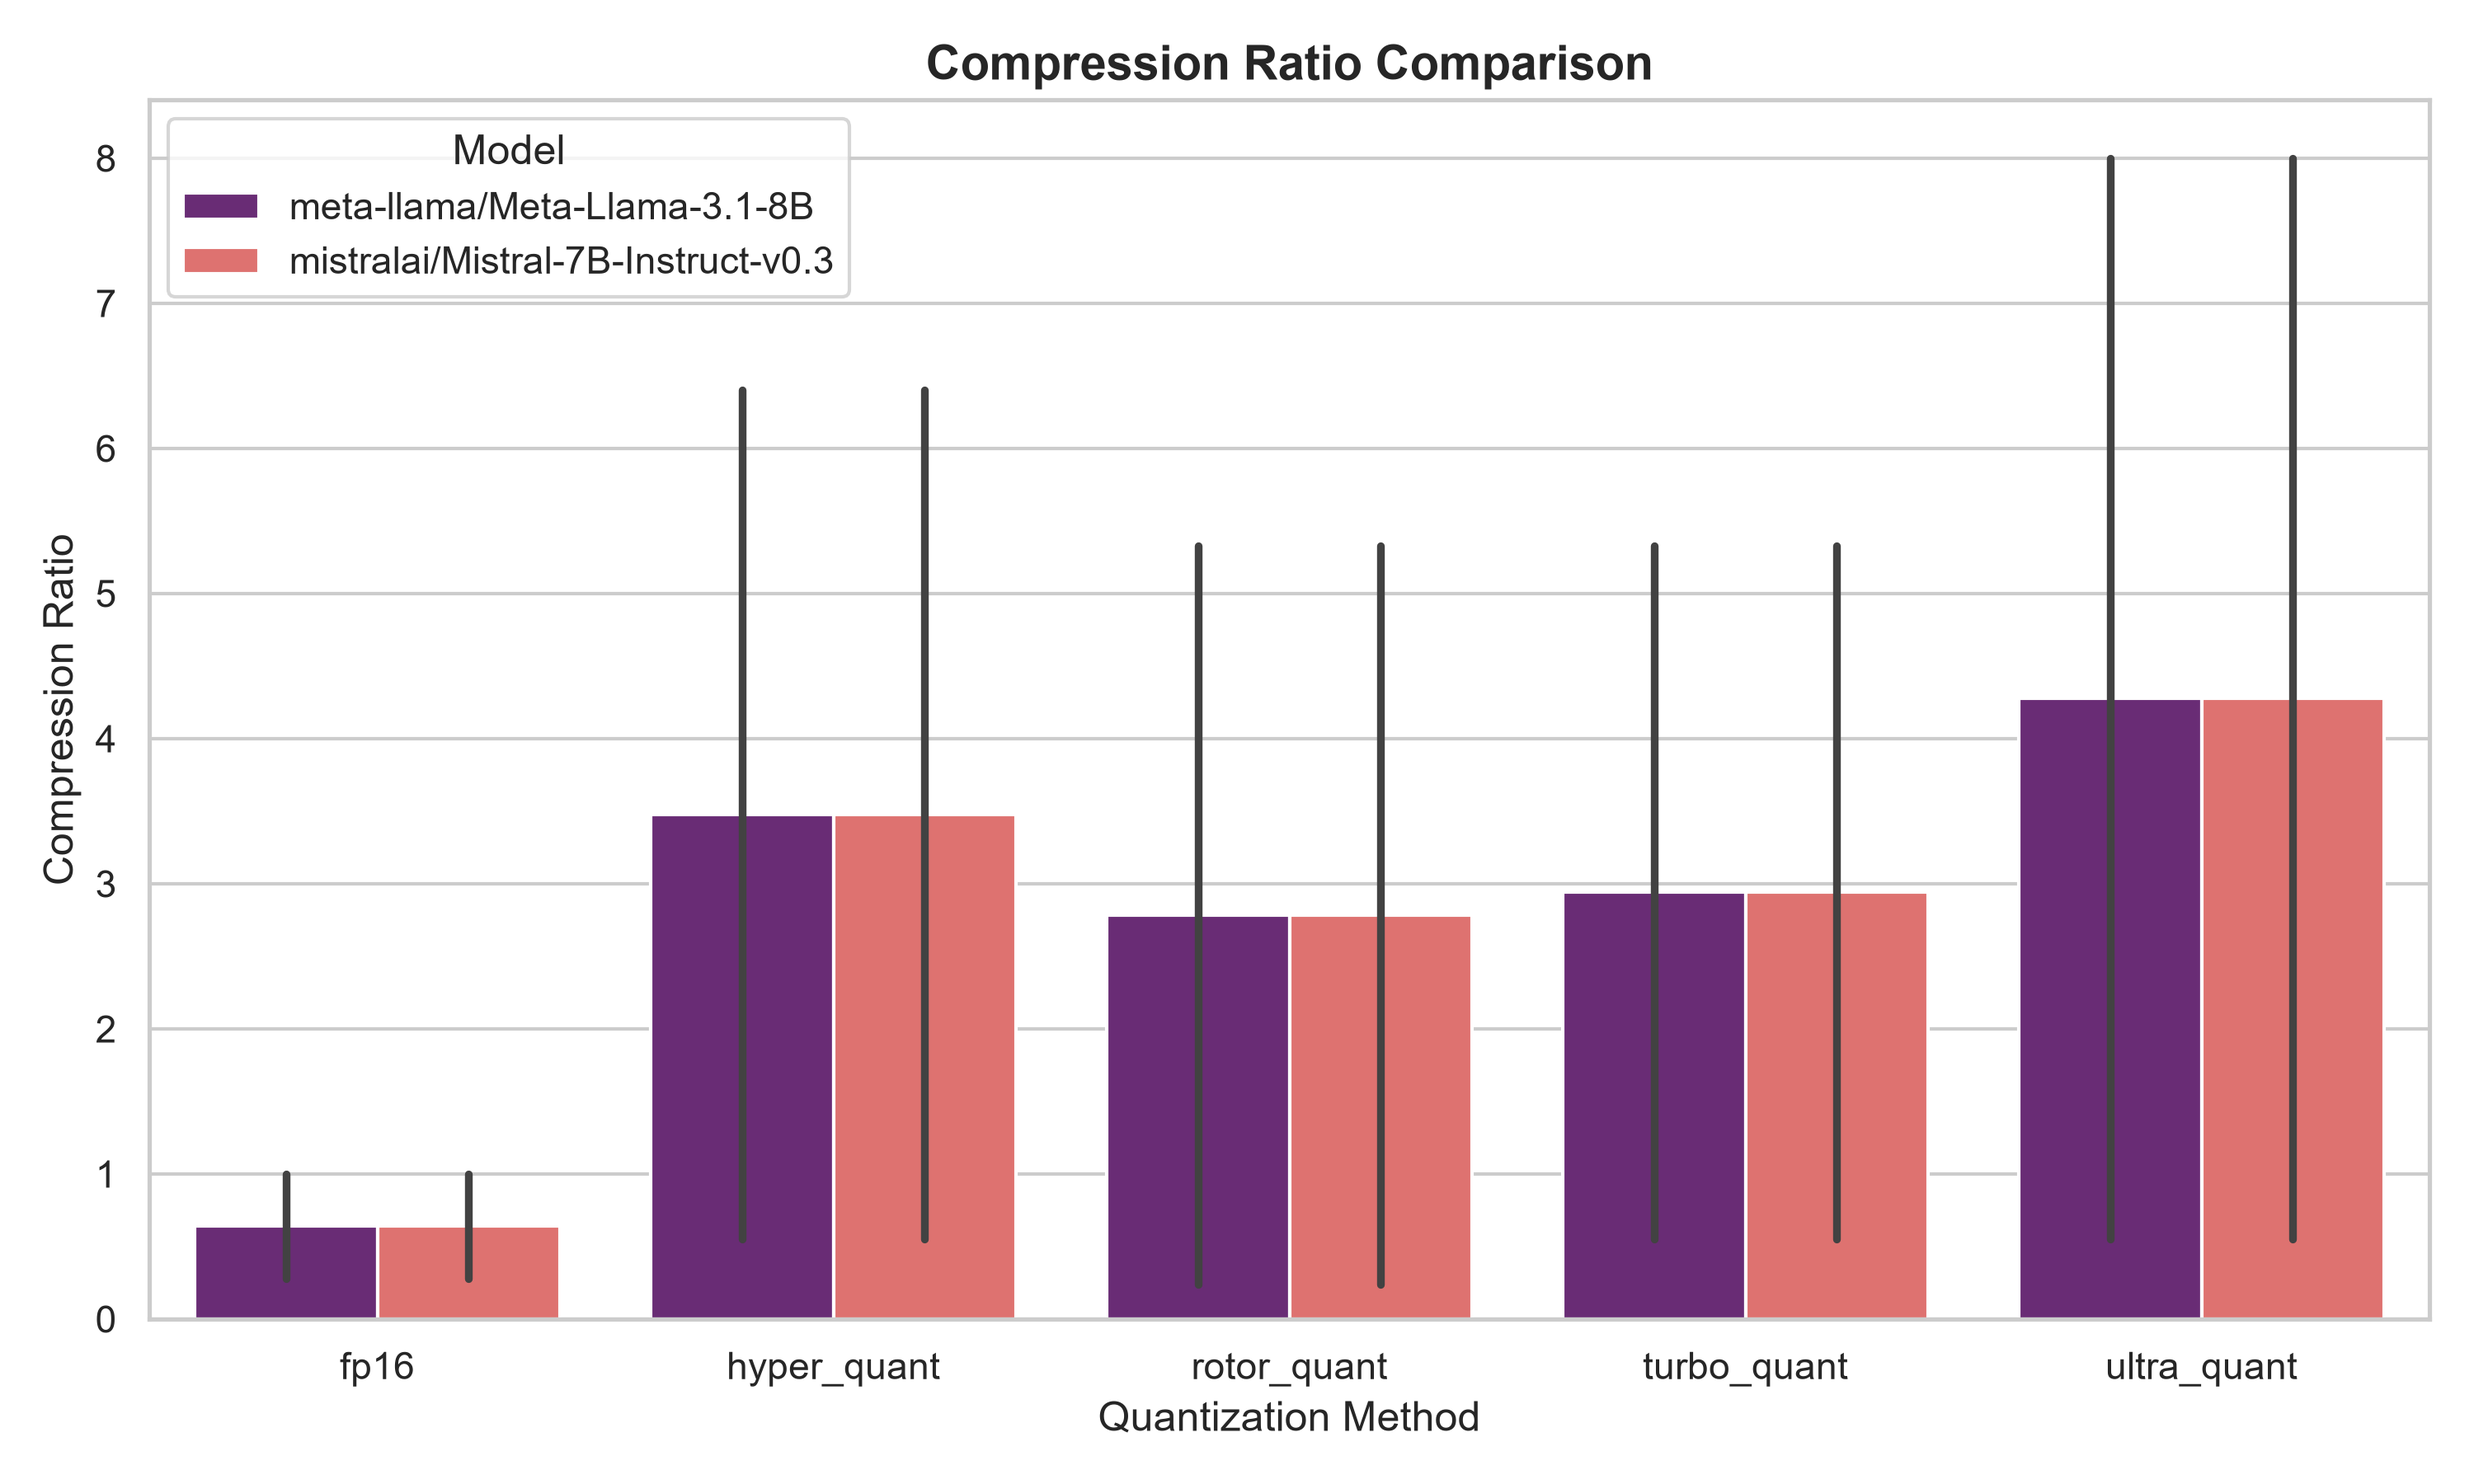
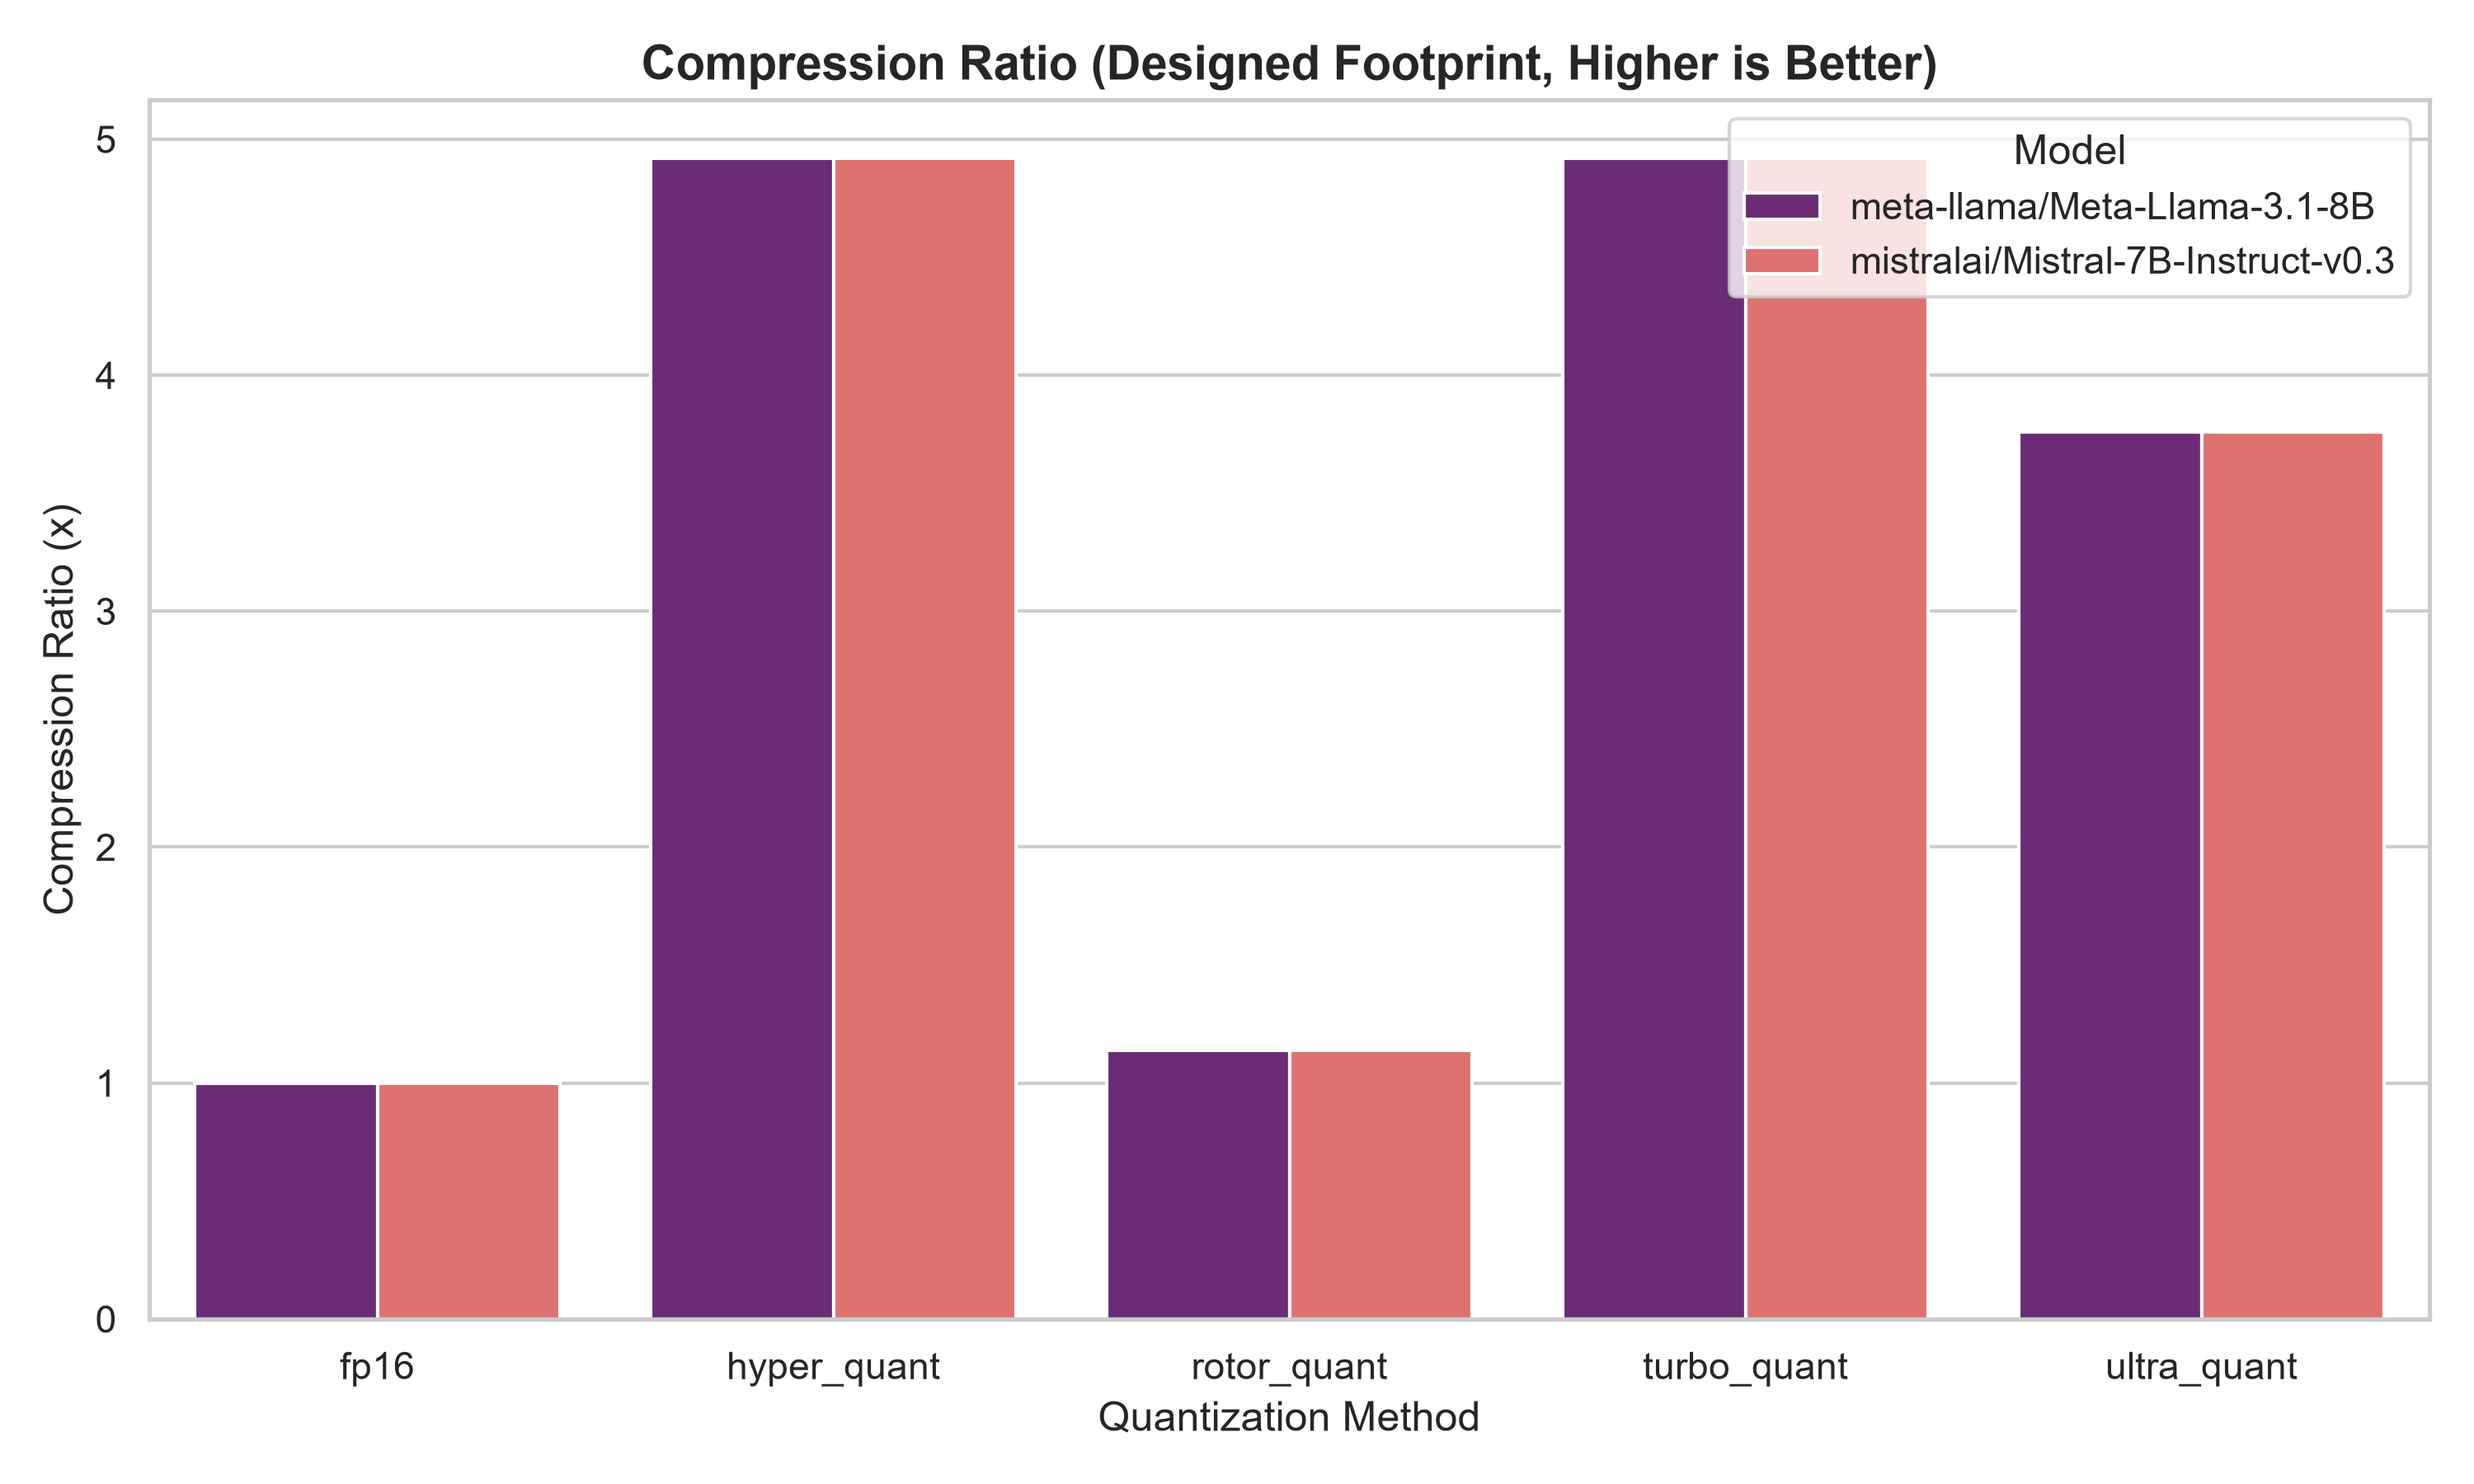
Restore and update summarize_results.py for new result schema; regenerate summary & plots
- restore results/summarize_results.py (deleted in 8effe54)
- compression plot now uses designed_compression_ratio (new schema field)
- add NIAH success rate, LongBench QA-F1, and logit/KV fidelity plots (6 total)
- skip list-form footprint summaries with an INFO message instead of a crash
- replace emoji prints with ASCII tags (Windows cp932 console crashed on them)
- requirements.txt: add matplotlib and seaborn

diff --git a/results/summarize_results.py b/results/summarize_results.py
@@ -1,0 +1,192 @@
+#!/usr/bin/env python3
+import os
+import glob
+import json
+import pandas as pd
+import matplotlib.pyplot as plt
+import seaborn as sns
+
+# スタイル設定
+sns.set_theme(style="whitegrid")
+plt.rcParams["font.size"] = 12
+
+# ファイル名サフィックスから判定するタスク種別
+TASK_TYPES = ["longbench", "niah", "ppl", "speed", "compression", "fidelity", "theoretical", "sanity"]
+
+
+def load_and_merge_results(results_dir="results/ai-l40s"):
+    """
+    results フォルダ内の全 JSON ファイルを読み込み、
+    model_name と method、ベンチマーク種別ごとにマージする
+    """
+    json_files = glob.glob(os.path.join(results_dir, "**", "*.json"), recursive=True)
+
+    if not json_files:
+        json_files = glob.glob("results/*.json")
+        results_dir = "results"
+
+    if not json_files:
+        print("[WARN] 結果ファイル(JSON)が見つかりませんでした。")
+        return None
+
+    records = {}
+
+    for file_path in json_files:
+        try:
+            with open(file_path, "r", encoding="utf-8") as f:
+                data = json.load(f)
+
+            filename = os.path.basename(file_path)
+
+            # サマリ系（all_methods_footprint_summary 等）の list 形式は
+            # メソッド別 JSON に内容が含まれているので集計対象から外す
+            if isinstance(data, list):
+                print(f"[INFO] スキップ (list形式のサマリ): {filename}")
+                continue
+
+            data["file_name"] = filename
+
+            model_name = data.get("model_name", "unknown_model")
+            method = data.get("method", "unknown_method")
+
+            task_type = "general"
+            for benchmark_name in TASK_TYPES:
+                if benchmark_name in filename:
+                    task_type = benchmark_name
+                    data["benchmark"] = benchmark_name
+                    break
+
+            key = (model_name, method, task_type)
+
+            if key not in records:
+                records[key] = {}
+
+            # データを結合
+            for k, v in data.items():
+                if v is not None:
+                    records[key][k] = v
+
+        except Exception as e:
+            print(f"[ERROR] ファイルの読み込みエラー ({file_path}): {e}")
+
+    if not records:
+        return pd.DataFrame()
+
+    return pd.DataFrame(list(records.values()))
+
+
+def format_and_save_summary(df):
+    """
+    データを整形してコンソールに表示し、CSVとして保存する
+    """
+    print("\n" + "=" * 80)
+    print(" [SUMMARY] KV-Cache Quantization Benchmark Summary (Task-aware Merged)")
+    print("=" * 80)
+
+    pd.set_option("display.max_columns", None)
+    pd.set_option("display.width", 1000)
+    pd.set_option("display.float_format", lambda x: "%.4f" % x)
+
+    print(df.head(10))
+    print("=" * 80)
+
+    output_csv = "summary_results.csv"
+    df.to_csv(output_csv, index=False)
+    print(f"\n[OK] タスク別に整理されたサマリーデータを '{output_csv}' に保存しました。\n")
+
+
+def _bar(df, column, title, ylabel, filename, output_dir, palette="viridis"):
+    """共通の棒グラフヘルパー（対象列が無い場合は静かにスキップ）"""
+    if column not in df.columns:
+        return
+    plot_df = df.dropna(subset=[column]).drop_duplicates(subset=["model_name", "method"])
+    if plot_df.empty:
+        return
+    plt.figure(figsize=(10, 6))
+    sns.barplot(data=plot_df, x="method", y=column, hue="model_name", palette=palette)
+    plt.title(title, fontsize=14, fontweight="bold")
+    plt.xlabel("Quantization Method", fontsize=12)
+    plt.ylabel(ylabel, fontsize=12)
+    plt.legend(title="Model")
+    plt.tight_layout()
+    plt.savefig(os.path.join(output_dir, filename), dpi=300)
+    plt.close()
+
+
+def generate_plots(df, output_dir="plots"):
+    """
+    主要な指標の比較グラフを生成する（新スキーマ対応）
+    """
+    os.makedirs(output_dir, exist_ok=True)
+
+    # 1. PPL
+    _bar(
+        df, "perplexity",
+        "Perplexity (PPL) Comparison (Lower is Better)",
+        "Perplexity", "ppl_comparison.png", output_dir,
+    )
+
+    # 2. 圧縮率（designed footprint 基準: _theoretical.json / _compression.json 由来）
+    _bar(
+        df, "designed_compression_ratio",
+        "Compression Ratio (Designed Footprint, Higher is Better)",
+        "Compression Ratio (x)", "compression_comparison.png", output_dir, palette="magma",
+    )
+
+    # 3. 速度
+    _bar(
+        df, "tokens_per_second",
+        "Inference Speed Comparison (Higher is Better)",
+        "Tokens / Second", "speed_comparison.png", output_dir, palette="coolwarm",
+    )
+
+    # 4. NIAH 成功率
+    _bar(
+        df, "niah_success_rate",
+        "Needle In A Haystack Success Rate (Higher is Better)",
+        "Success Rate", "niah_success_rate.png", output_dir, palette="crest",
+    )
+
+    # 5. LongBench Qasper QA-F1
+    _bar(
+        df, "longbench_qasper_f1",
+        "LongBench Qasper QA-F1 (Higher is Better)",
+        "QA-F1", "longbench_f1.png", output_dir, palette="flare",
+    )
+
+    # 6. 忠実度（logit / KV の cos-sim を並べて表示）
+    fidelity_cols = [
+        ("logit_cosine_similarity", "Logit Cosine Similarity"),
+        ("kv_cosine_similarity", "KV Cosine Similarity"),
+    ]
+    available = [(c, t) for c, t in fidelity_cols if c in df.columns]
+    if available:
+        plot_df = df.dropna(subset=[c for c, _ in available]).drop_duplicates(
+            subset=["model_name", "method"]
+        )
+        if not plot_df.empty:
+            fig, axes = plt.subplots(1, len(available), figsize=(7 * len(available), 6), sharey=True)
+            if len(available) == 1:
+                axes = [axes]
+            for ax, (col, title) in zip(axes, available):
+                sns.barplot(
+                    data=plot_df, x="method", y=col, hue="model_name",
+                    palette="rocket", ax=ax, legend=(ax is axes[-1]),
+                )
+                ax.set_title(title, fontsize=13, fontweight="bold")
+                ax.set_xlabel("Quantization Method", fontsize=11)
+                ax.set_ylabel("Cosine Similarity" if ax is axes[0] else "", fontsize=11)
+            fig.suptitle("Fidelity Comparison (Higher is Better)", fontsize=14, fontweight="bold")
+            plt.tight_layout()
+            plt.savefig(os.path.join(output_dir, "fidelity_comparison.png"), dpi=300)
+            plt.close(fig)
+
+
+if __name__ == "__main__":
+    df_results = load_and_merge_results()
+    if df_results is not None and not df_results.empty:
+        format_and_save_summary(df_results)
+        generate_plots(df_results)
+        print("[OK] すべての集計とグラフ描画が完了しました。")
+    else:
+        print("[ERROR] 処理できるデータが見つかりませんでした。")
